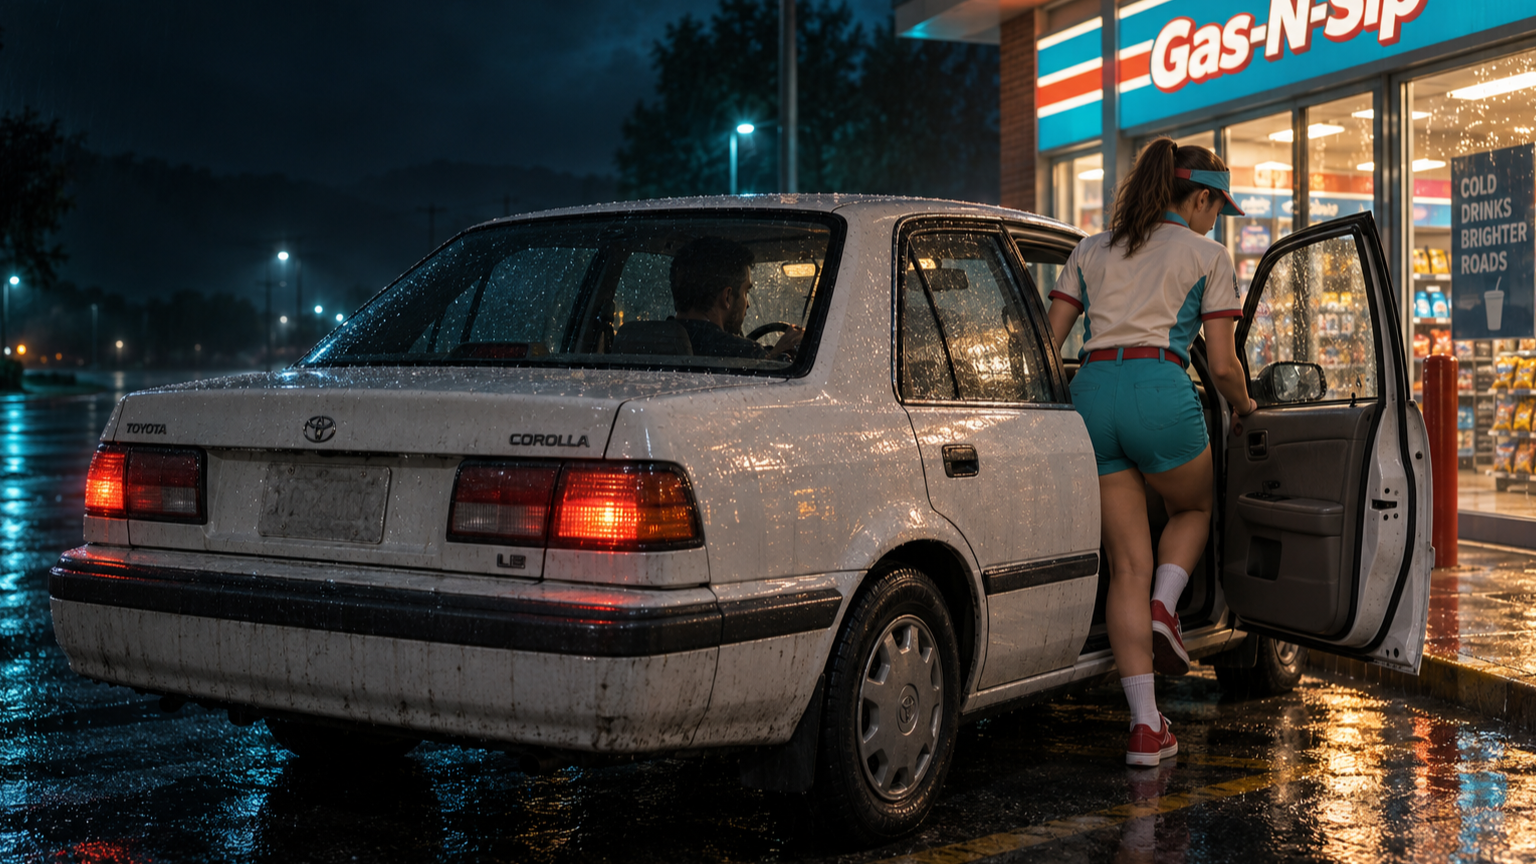
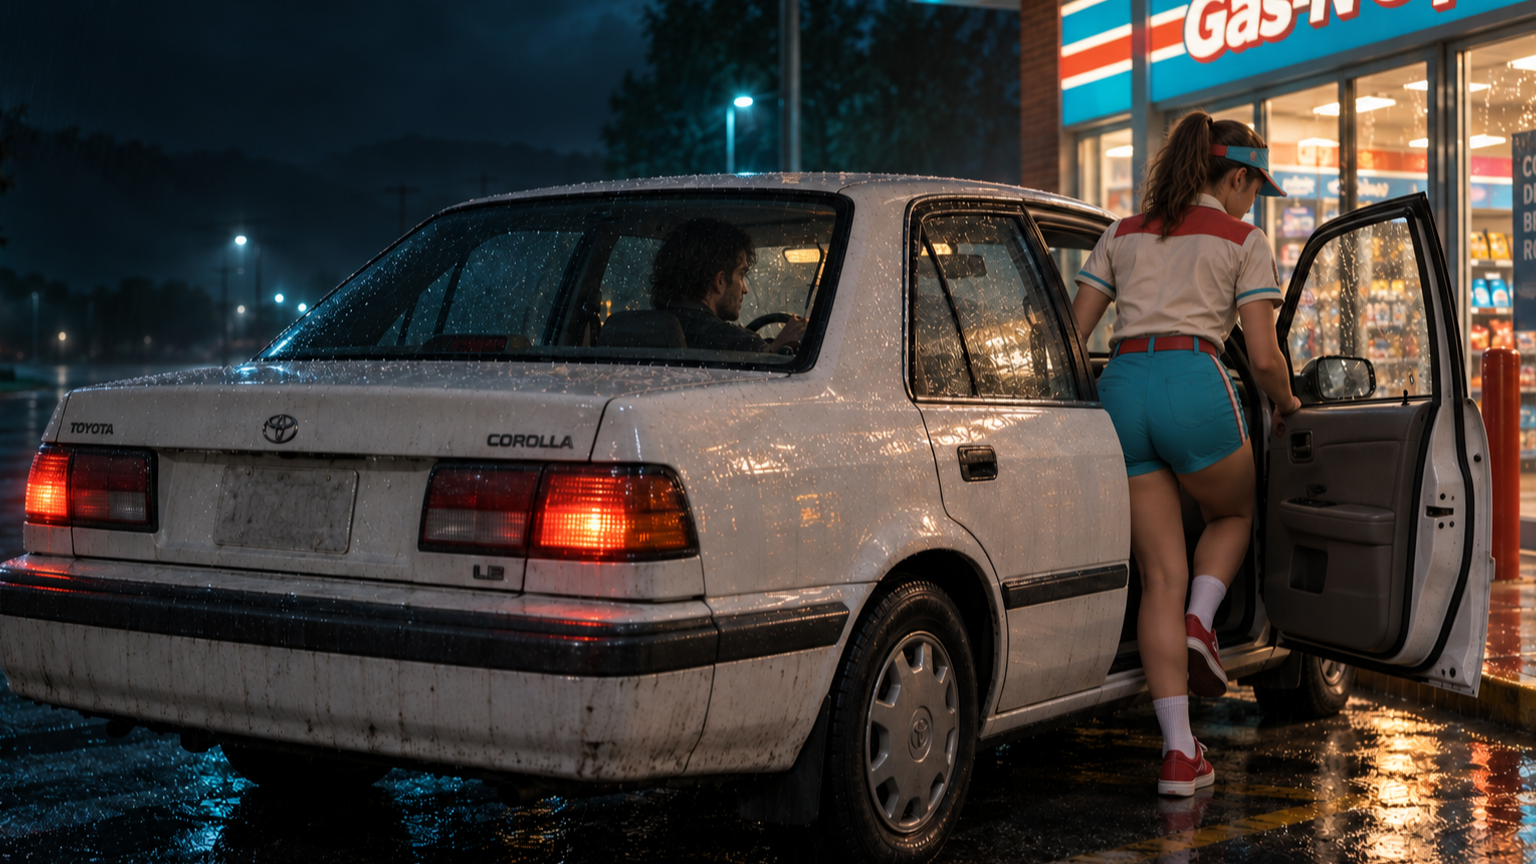
Resume-path radio handoff, comic touch scroll, <2-star warnings, $400 two-cop fine; Comic Book V2 proposal (Ch. 18.13)

diff --git a/src/scenes/GameScene.js b/src/scenes/GameScene.js
@@ -26045,7 +26045,7 @@ export class GameScene extends Phaser.Scene {
    *  snapshot first so the next scene boots in the matching mode. */
   _resumeFromSavedSnapshot(snap) {
     // Same resume-path radio kick as _resumeFromLiveSnapshot (see there).
-    this._kickRadio();
+    this._kickRadio({ run: true });
     if (snap?.difficulty) Difficulty.set(snap.difficulty, this.registry);
     this.scene.start('Game', {
       resumeFromStop: snap.id,
@@ -26568,8 +26568,10 @@ export class GameScene extends Phaser.Scene {
     // Kick the radio NOW — we're inside the LOAD SAVE tap's gesture frame,
     // the first legal moment for audio.  Fresh runs kick in _startGameplay,
     // but resume boots skip it, which left resumed runs with NO music
-    // (owner 2026-07-22: "music isn't playing by default").
-    this._kickRadio();
+    // (owner 2026-07-22: "music isn't playing by default").  `run: true`:
+    // we're still in title state here, and the title branch would re-arm the
+    // menu mix instead of handing off to the soundtrack.
+    this._kickRadio({ run: true });
     if (snap.difficulty) Difficulty.set(snap.difficulty, this.registry);
     this.scene.start('Game', { resumeLiveSnapshot: snap });
   }
@@ -26738,7 +26740,7 @@ export class GameScene extends Phaser.Scene {
    *  Inits on first call (which also arms the iOS native-gesture unlock),
    *  resumes the context if an autoplay block suspended it, and never restarts
    *  a song that's already playing.  Respects the mute toggle. */
-  _kickRadio() {
+  _kickRadio({ run = false } = {}) {
     const a = this.audio;
     if (!a) return;
     // TITLE / MENU kick (owner 2026-08-31 + 09-05 refinement): a FRESH open
@@ -26747,7 +26749,11 @@ export class GameScene extends Phaser.Scene {
     // returns this session — a mid-session visit back to the title/menu
     // keeps the player's soundtrack playing as normal, until the game is
     // closed (next page load re-arms the scan in the constructor).
-    if (this._awaitingStart) {
+    // `run: true` = a resume path kicking from INSIDE the title (the scene
+    // hasn't flipped _awaitingStart yet) — it must take the run branch below,
+    // not re-arm the scan (owner 2026-09-09: "radio mix not being
+    // interrupted by the player's default soundtrack when entering the game").
+    if (this._awaitingStart && !run) {
       if (a._radioScanActive) {
         if (!a.ready) a.init(); else a._enablePlayback?.();
         a.playRadioScan?.();

diff --git a/src/data/comicPanels.js b/src/data/comicPanels.js
@@ -293,24 +293,24 @@ export const PANEL_META = {
     art: 'assets/storylines/country/mercer_island/mercer_03_quit_and_join_player.png',
     bubble:       { x: 0.02, y: 0.03, w: 0.42, h: 0.25 },
     playerBubble: { x: 0.03, y: 0.72, w: 0.36, h: 0.24 },
-    tail:         { x: 0.749, y: 0.242 },
-    playerTail:   { x: 0.454, y: 0.324 },
+    tail:         { x: 0.850, y: 0.195 },
+    playerTail:   { x: 0.518, y: 0.290 },
     protect:      [
-      { x: 0.40, y: 0.22, w: 0.13, h: 0.24 }, // Player + steering wheel
-      { x: 0.64, y: 0.12, w: 0.15, h: 0.70 }, // Brittney
-      { x: 0.76, y: 0.18, w: 0.16, h: 0.55 }, // open passenger door
+      { x: 0.44, y: 0.20, w: 0.14, h: 0.25 }, // Player + steering wheel
+      { x: 0.68, y: 0.07, w: 0.20, h: 0.80 }, // Brittney
+      { x: 0.80, y: 0.17, w: 0.16, h: 0.58 }, // open passenger door
     ],
   },
   'country.mercer_departure.board': {
     art: 'assets/storylines/country/mercer_island/mercer_03_quit_and_join_player.png',
     bubble:       { x: 0.02, y: 0.03, w: 0.42, h: 0.25 },
     playerBubble: { x: 0.03, y: 0.72, w: 0.36, h: 0.24 },
-    tail:         { x: 0.749, y: 0.242 },
-    playerTail:   { x: 0.454, y: 0.324 },
+    tail:         { x: 0.850, y: 0.195 },
+    playerTail:   { x: 0.518, y: 0.290 },
     protect:      [
-      { x: 0.40, y: 0.22, w: 0.13, h: 0.24 },
-      { x: 0.64, y: 0.12, w: 0.15, h: 0.70 },
-      { x: 0.76, y: 0.18, w: 0.16, h: 0.55 },
+      { x: 0.44, y: 0.20, w: 0.14, h: 0.25 },
+      { x: 0.68, y: 0.07, w: 0.20, h: 0.80 },
+      { x: 0.80, y: 0.17, w: 0.16, h: 0.58 },
     ],
   },
   'country.need_hunger.sushi': {

diff --git a/index.html b/index.html
@@ -188,7 +188,11 @@
     #phone-app .cr-tabs { display: flex; gap: 2cqw; flex-wrap: wrap; margin-bottom: 2cqw; }
     #phone-app .cr-tab.on { background: rgba(57,168,255,0.28); }
     #phone-app .cr-body { display: flex; flex-direction: column; align-items: center; gap: 3cqw; }
-    #phone-app .cr-page { display: block; box-shadow: 0 0.6cqw 2.2cqw rgba(0,0,0,0.55); border-radius: 0.6cqw; }
+    /* touch-action: pan-y overrides the global `canvas { touch-action: none }`
+       (the game canvas rule) — comic pages are canvases too, and with `none`
+       iOS never starts a pan gesture on them, so the book could not be
+       scrolled by touch (owner 2026-09-09). */
+    #phone-app .cr-page { display: block; box-shadow: 0 0.6cqw 2.2cqw rgba(0,0,0,0.55); border-radius: 0.6cqw; touch-action: pan-y; }
     #phone-app .cr-chapter {
       align-self: stretch; color: #39A8FF; font-weight: 800; font-size: 3.2cqw; letter-spacing: 0.08em;
       text-transform: uppercase; margin: 2cqw 0 0; border-bottom: 2px solid rgba(57,168,255,0.4); padding-bottom: 1cqw;

diff --git a/src/constants.js b/src/constants.js
@@ -328,7 +328,7 @@ export const COP_TRAP_HOLD_SEC     = 15;
 // The two-cop fine is its own number, NOT a multiple of the base: at 2★ there
 // are two cruisers on you, and the escalation is authored rather than derived.
 export const COP_TICKET_SPEEDING        = 150;      // one cop / speed trap
-export const COP_TICKET_SPEEDING_2COP   = 350;      // 2★ — two cruisers
+export const COP_TICKET_SPEEDING_2COP   = 400;      // 2★ — two cruisers (owner 2026-09-09: $400)
 
 // ── Finish cinematic (park in front of the Pullman Party House) ───────────
 // On crossing the mile-289 finish, input locks, the car eases to a stop over

diff --git a/src/data/genreVehicleTraits.js b/src/data/genreVehicleTraits.js
@@ -395,7 +395,7 @@ export const POLICE_WARNING_CHANCE = 0.35;   // owner 2026-09-09: was 25%, raise
 /** Chance THIS stop is a warning: the 25% base at ≤1★, but ZERO if the vehicle's
  *  trait removes warnings (reggae) or the wanted level is above 1★. Pure/testable. */
 export function policeWarningChance(trait, stars, base = POLICE_WARNING_CHANCE) {
-  if ((stars ?? 0) > 1) return 0;
+  if ((stars ?? 0) >= 2) return 0;   // owner 2026-09-09: any pullover BELOW 2★ can warn (a decaying 1.5★ still does)
   return mult(trait, 'noPoliceWarning') ? 0 : base;
 }
 

diff --git a/Road Trip Roulette Overview.md b/Road Trip Roulette Overview.md
@@ -204,6 +204,32 @@ genre past the first (deferred to post-dev-mode — see the pending list above).
 
 ## Changelog (newest first)
 
+### 2026-09-09 (pt 4) — Resume-path radio handoff fixed, comic scroll unblocked, <2★ warnings, $400 two-cop fine, Comic V2 proposal
+
+- **Radio mix now hands off on RESUME** (owner: "mix not being interrupted by
+  the player's default soundtrack when entering the game"): `_resumeFromLive
+  Snapshot` / `_resumeFromSavedSnapshot` kick the radio while the scene is
+  still in TITLE state, so `_kickRadio` took the title branch and re-armed the
+  scan.  Fresh runs flip `_awaitingStart` first, which is why START worked and
+  resume didn't.  `_kickRadio({ run: true })` on both resume paths forces the
+  run branch.  Probe: title scan on → resume → `snoqualmie_moon.mp3` playing,
+  scan off.
+- **Comic book scrolls by touch**: the global `canvas { touch-action: none }`
+  (the game-canvas rule) caught the `.cr-page` canvases, so iOS never began a
+  pan.  `#phone-app .cr-page { touch-action: pan-y }`.
+- **Warnings on any pullover BELOW 2★** (a decaying 1.5★ still warns) —
+  `policeWarningChance` gate `> 1` → `>= 2`; **two-cop fine $400** (was $350
+  in code).  Tests updated (+1.5★ case).
+- **Comic Book V2 proposal** published (artifact "RTR Comic Book V2") and
+  summarized as Ch. 18.9 below: page grammar (5 templates, 3–6 panels, no
+  single-panel pages for `major` beats), balloon vocabulary (speech / player /
+  shout / thought / whisper / sarcasm / phone / caption / SFX), lettering spec
+  (Comic Neue + Bangers + Barlow Condensed), face-safe placement scoring, and
+  the per-panel metadata record the owner helps fill.  Awaiting owner answers
+  before any reader code changes.
+- Near-miss lateral window for Brittney: owner asked "< 1 car-width" —
+  units question pending (see the 09-09 Q&A); code unchanged this pass.
+
 ### 2026-09-09 (pt 3) — Owner batch: tap-to-read texts, Brittney nerve economy, stop-local dialogue, no-refund money, pay-at-pullover + 35% warnings
 
 Owner directives (all Q&A-confirmed, no liberties):
@@ -12789,3 +12815,58 @@ Verify at minimum:
 - PDF export works for complete and TO BE CONTINUED volumes without network access;
 - no regression to audio lifecycle, driving, rest stops, saves, economy, achievements, genre
   ownership, or existing encounter cards.
+
+### 18.13 Comic Book V2 — layout, lettering & balloon proposal (2026-09-09, AWAITING OWNER ANSWERS)
+
+Owner brief: "it appears like a page with one image on it… look at a comic book with
+different size frames and text bubbles that don't cover faces… research comic book
+layouts, font, bubble styles… come up with a better layout for dialogue display."
+Full visual proposal (live sample page from real panels, balloon catalog, templates):
+artifact **"RTR Comic Book V2"** — https://claude.ai/code/artifact/0e13b9dd-948d-4ffb-a0b2-816155ccb453
+
+**Diagnosis of the current reader** (`src/ui/ComicReader.js`, `src/data/comicPanels.js`,
+`src/systems/ComicSystem._placeEvent`):
+- `major` / `climax` / `ending` beats each LOCK a page with one panel; `wide` leaves the
+  lower ~55% of the page empty.  18 of the 31 authored beats are those kinds → the book
+  is mostly single-image pages.
+- One balloon shape for everything; type sized from box HEIGHT (22%); no thought /
+  shout / whisper / caption / SFX.
+- Art is center-cropped with balloons at fixed corners; the `protect` (face/body)
+  rectangles already authored in PANEL_META are never read by the renderer.
+- Touch scrolling was blocked by the global `canvas { touch-action: none }` — FIXED pt 4.
+
+**Proposed page grammar** (Western conventions: 4–6 panels typical, splash sparingly —
+sources: Hooded Utilitarian "Analyzing Comics 101", Clip Studio layout guide, Comicory
+panel-layout guide):
+- A major beat takes the BIGGEST panel on the page it belongs to — never its own page.
+  Splash pages only for `climax` / `ending`, max one per chapter.
+- Five templates: Lead+pair+wide · Build→reveal (choice nodes) · Splash+inset
+  (climax/ending) · Six-up+strip (dialogue-heavy stops; strip = MEANWHILE) · Ambush
+  (1.2% gutters, three tall slivers, big impact panel).  Constant 2.4% gutter otherwise.
+- Vertical scroll book retained (matches the PDF stack) unless the owner prefers swipe spreads.
+
+**Balloon vocabulary** (speech · player-cream · shout/jagged red · thought cloud with
+trailing bubbles · whisper dashed grey italic · sarcasm double-outline italic (house rule;
+no formal convention) · phone/radio squared + zig-zag tail · caption gold box · SFX
+Bangers red-over-gold rotated −6…−10°).  Tone picked from the line's own text (`!` /
+CAPS → shout, `…` → whisper/thought) with a per-panel `tone` override.
+
+**Lettering**: Comic Neue Bold caps for dialogue at 3.2% of PANEL WIDTH (min 9 / max
+15 px); whisper 2.9% italic mixed-case; shout 4.0% red; captions Barlow Condensed 700
+caps 2.8%; SFX Bangers 10–16%; ≤ 28 words per balloon, split at first sentence end into a
+linked balloon — never shrink to fit.  Fonts bundled as woff2 so the PDF letters identically.
+
+**Face-safe placement**: crop with `object-position` aimed at a per-panel `focus` box, then
+score nine candidate balloon spots (3×3 + hanging into the gutter): −100 if >12% of a
+protect box covered, −40 per 10% covered, −10 per 100 px of tail, +25 for the empty third
+nearest the speaker's mouth; top-row tie-break; player balloon placed second with the NPC
+balloon added to the protect list; escape hatch = hang in the gutter above.
+
+**Metadata the owner helps fill** (per panel, ~3 min each; I pre-fill `faces` from
+`protect` and guess `mouth`/`focus`, owner corrects by eye — OR owner supplies 1:1 and 2:3
+crops of key panels instead):
+`{ art, focus:{x,y,w,h}, faces:[…], mouth:{npc:{x,y}, player:{x,y}}, tone:'speech', sfx:null }`
+
+**Open decisions put to the owner**: reading direction (scroll vs swipe spreads); font
+family (Comic Neue+Bangers vs hand-lettered Kalam/Patrick Hand+Luckiest Guy); metadata
+route (annotate vs crop variants).  No reader code changes until answered.

diff --git a/public/assets/storylines/STORY_ART_INTEGRATION.md b/public/assets/storylines/STORY_ART_INTEGRATION.md
@@ -211,7 +211,7 @@ panel: rows marked `UNWIRED` remain unavailable to `PANEL_META`.
 | `mercer_island/mercer_04_quits_leaves_phone.png` | approved new Mercer consequence | `{x:.303,y:.252}` (507,237) | `{x:.753,y:.276}` (1259,260) |
 | `vantage/vantage_01_spots_friends_work_uniform.png` | approved establishing beat only | `{x:.530,y:.292}` (886,275) | `{x:.271,y:.332}` (453,312) |
 | `mercer_island/mercer_03_changed_to_road_clothes.png` | `UNWIRED` — wrong location/early outfit | `{x:.402,y:.302}` (672,284) | `{x:.758,y:.361}` (1267,340) |
-| `mercer_island/mercer_03_quit_and_join_player.png` | `country.mercer_departure` / `.board` — approved work-uniform replacement; anatomically natural rear view, Brittney enters the front passenger seat and Player remains behind the wheel | `{x:.749,y:.242}` (1252,228) | `{x:.454,y:.324}` (759,305) |
+| `mercer_island/mercer_03_quit_and_join_player.png` | `country.mercer_departure` / `.board` — approved work-uniform replacement using the canonical red-shoulder/striped-shorts uniform and established Player likeness; Brittney enters the front passenger seat and Player remains behind the wheel | `{x:.850,y:.195}` (1421,184) | `{x:.518,y:.290}` (866,273) |
 | `driving_reactions/major_collision_nerve_loss.png` | `UNWIRED` — early outfit | `{x:.553,y:.348}` (925,327) | `{x:.251,y:.351}` (420,330) |
 | `driving_reactions/smooth_ride_flirtation.png` | `UNWIRED` — early outfit | `{x:.371,y:.302}` (620,284) | `{x:.673,y:.342}` (1125,322) |
 | `nerve/nerve_zero_roadside_exit.png` | `UNWIRED` — early outfit | `{x:.692,y:.323}` (1157,304) | `{x:.194,y:.390}` (324,367) |
